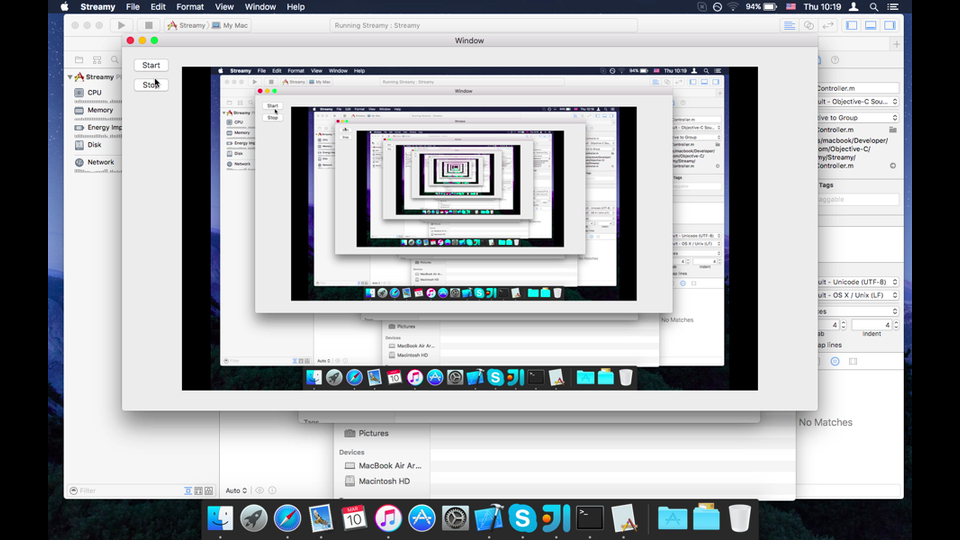
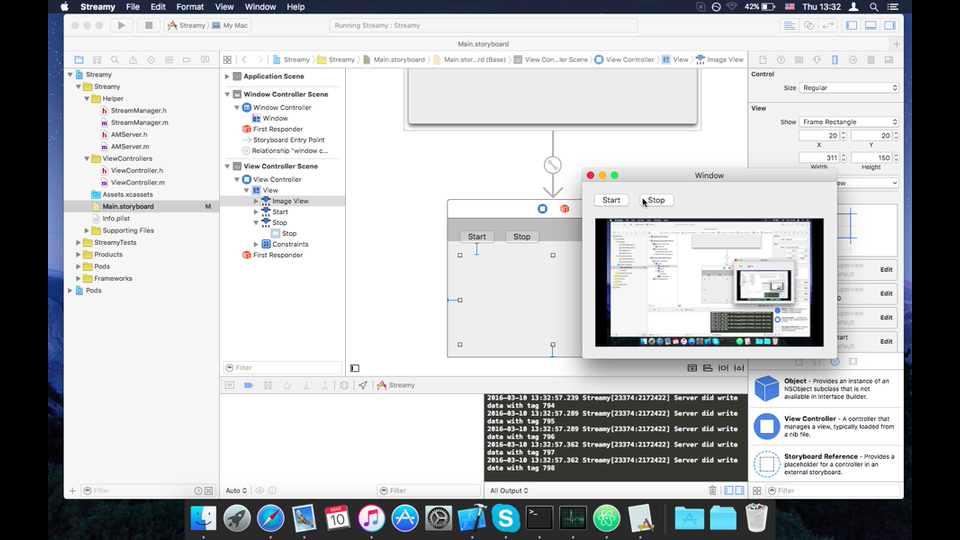
Imporoved UI in the Streamy-Mac-App. Removed unecessary images.

diff --git a/Streamy-Server/server.js b/Streamy-Server/server.js
@@ -55,7 +55,7 @@ const httpServer = http.createServer((request, response) => {
       response.end();
   }
 });
-httpServer.listen(8000);
+httpServer.listen(8000, '0.0.0.0');
 
 const io = require('socket.io').listen(httpServer);
 
